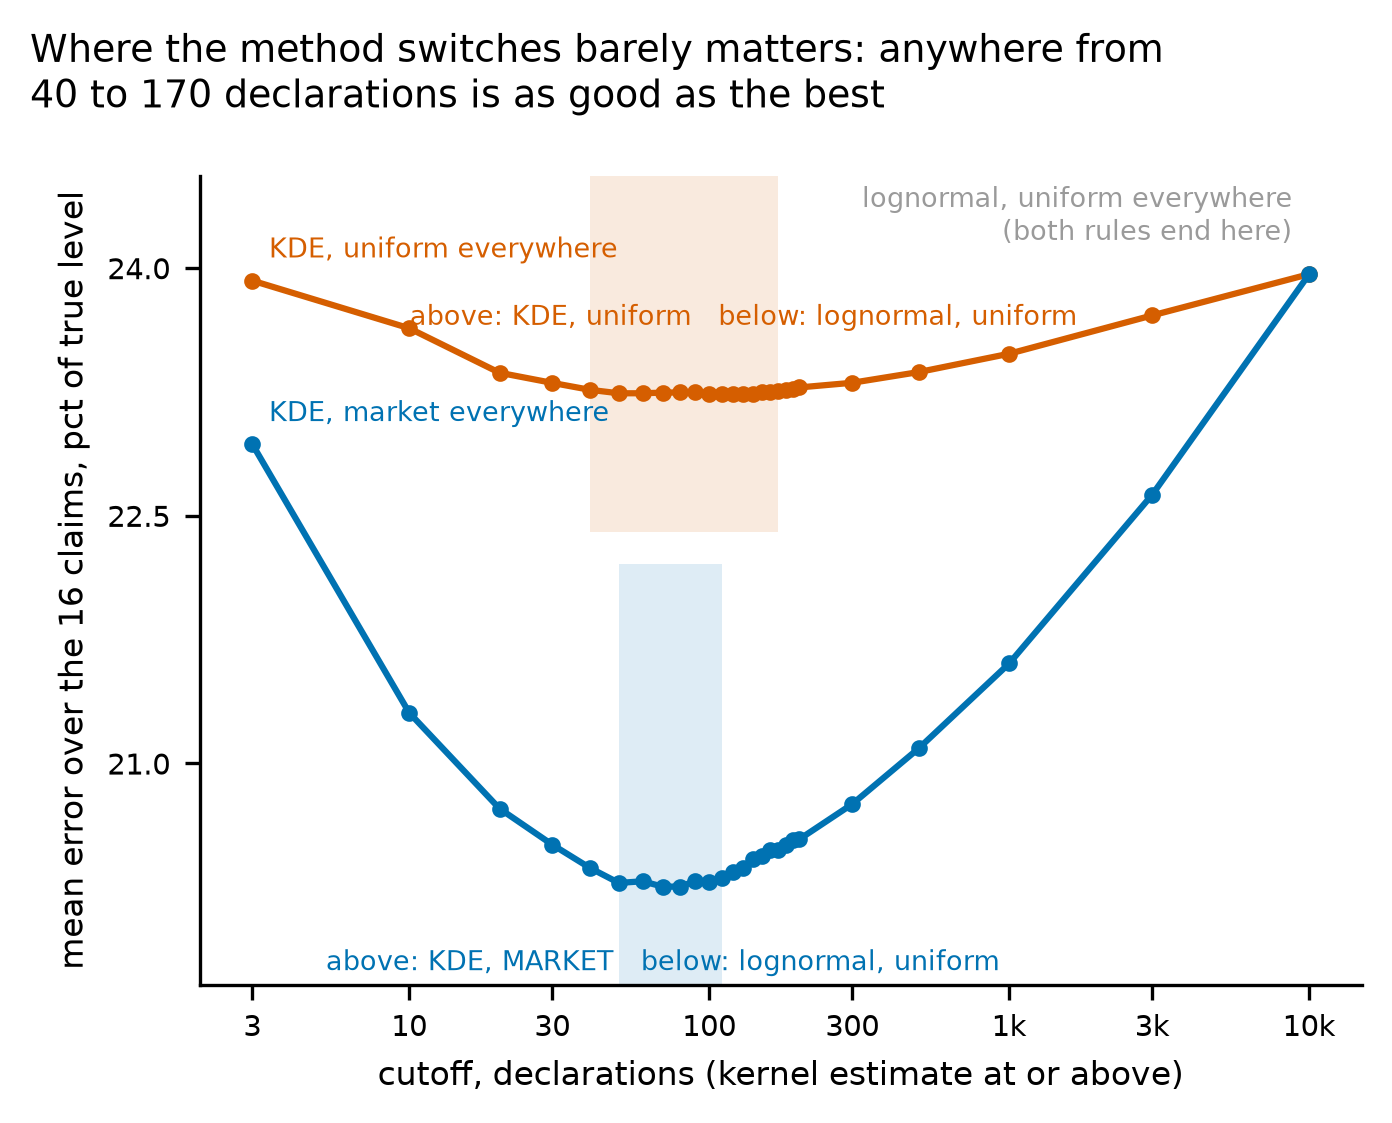
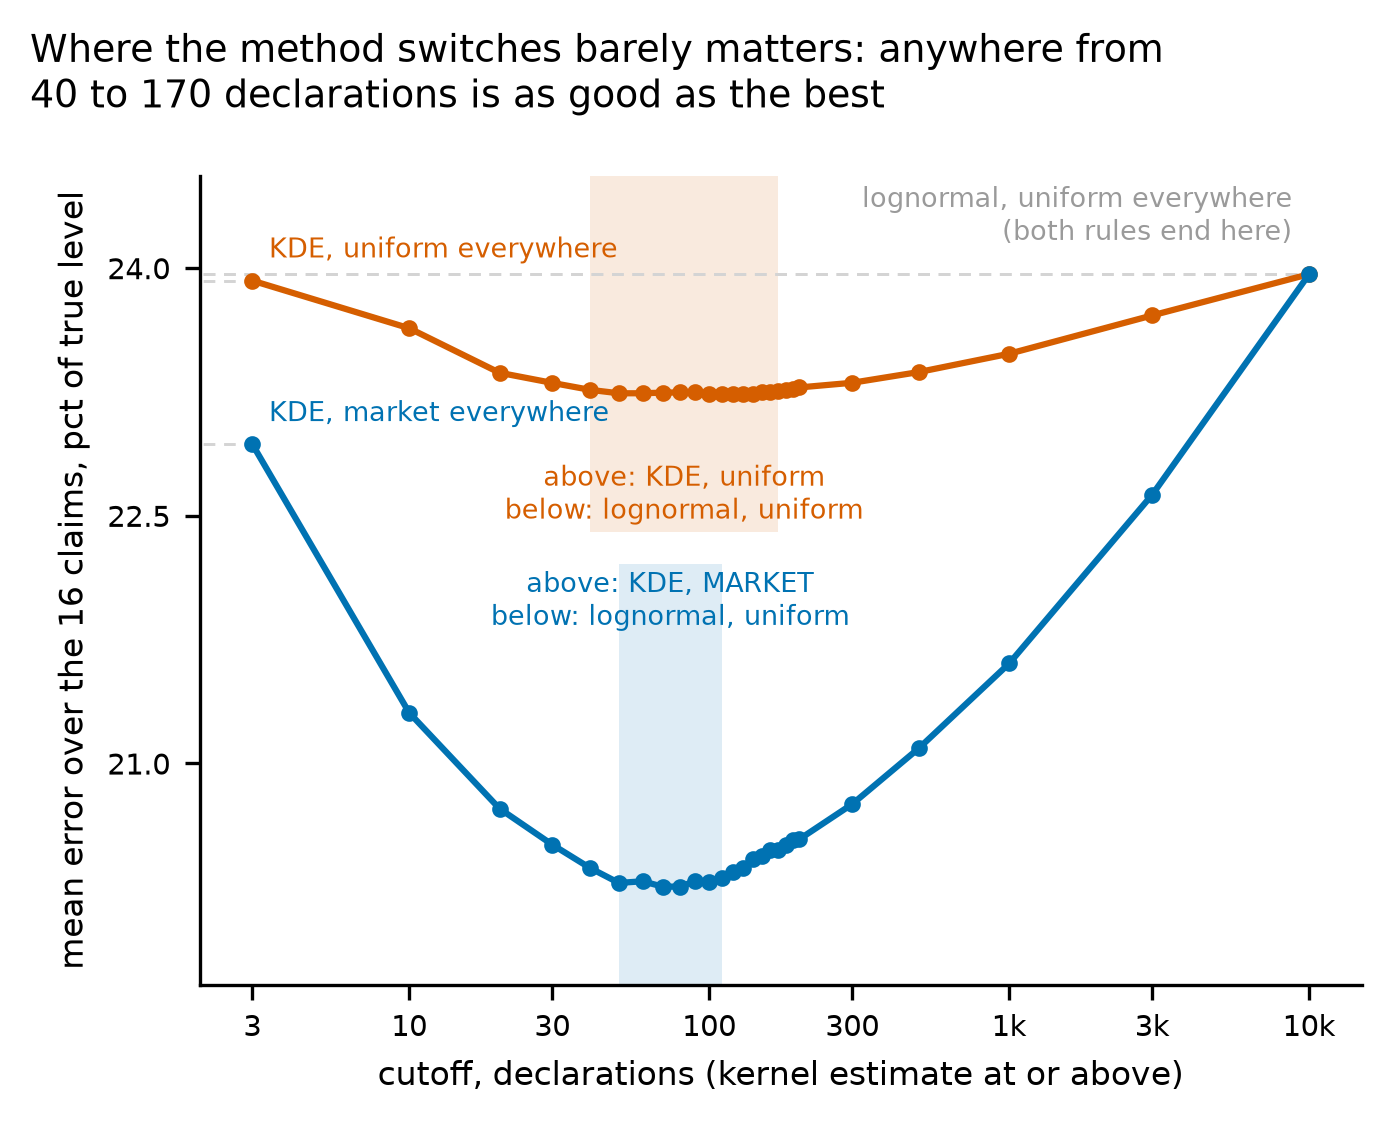
Two-line curve labels on their band edges, and a rule from each vertex
Four figure changes, all the author's:

The curve labels break over two lines -- "above: X" / "below: Y" -- instead of
running the two branches together on one, which was unreadable at annotation
size.

Each label is anchored to the facing edge of its OWN band rather than to its
curve: the orange one at the bottom of the orange band, the blue one at the top
of the blue band. Anchored to the curve they had to be nudged by hand to clear
it, and the nudge was only right where the curve happened to be flat.

A light dashed rule runs from each vertex back to the y axis so the three end
points can be read against the scale and against each other. The right-hand one
spans the panel because that vertex sits at a cutoff of 10,000.

And the sixth fixed method, a lognormal with market weights at 23.65, stays OFF
the panel, with the reason now in the caption: neither swept rule can produce it
because both use a kernel estimate above the cutoff, so it belongs to a third
rule family that was not swept. It is worth a line of text -- it beats the better
uniform-weighted fixed method, 23.65 against 23.92, and still needs market
shares nobody publishes -- rather than a line on the figure that no curve
touches.

diff --git a/reports/STAGE_REPORT_2j.md b/reports/STAGE_REPORT_2j.md
@@ -135,7 +135,18 @@ below-method. Both curves therefore end at the same point, lognormal with
 uniform weights, and that shared end is checked to **0.00e+00** on every run.
 
 **The shaded bands are each curve's own indistinguishable span, in its own
-colour and on its own half of the panel** -- orange 40 to 170, blue 50 to 110.
+colour and on its own half of the panel** -- orange 40 to 170, blue 50 to 110 --
+and each curve's label sits on the facing edge of its own band. A light dashed
+rule runs from each vertex back to the y axis so the three end points can be
+read against the scale.
+
+**The sixth fixed method, a lognormal with market weights at 23.65, is not on
+this panel.** Neither swept rule can produce it: both use a kernel estimate
+above the cutoff, so a lognormal-with-market-weights policy belongs to a third
+rule family that was not swept. It is worth one line of text rather than a line
+on the figure, because it beats the better of the two uniform-weighted fixed
+methods -- 23.65 against 23.92 -- and still needs market shares nobody
+publishes. It is in `TABLE_MixedPolicyRanking.csv`.
 Neither is the 80-to-100 band for when market share starts helping: that is a
 per-dataset measurement against the true parent (section 4) and does not live on
 this axis.
